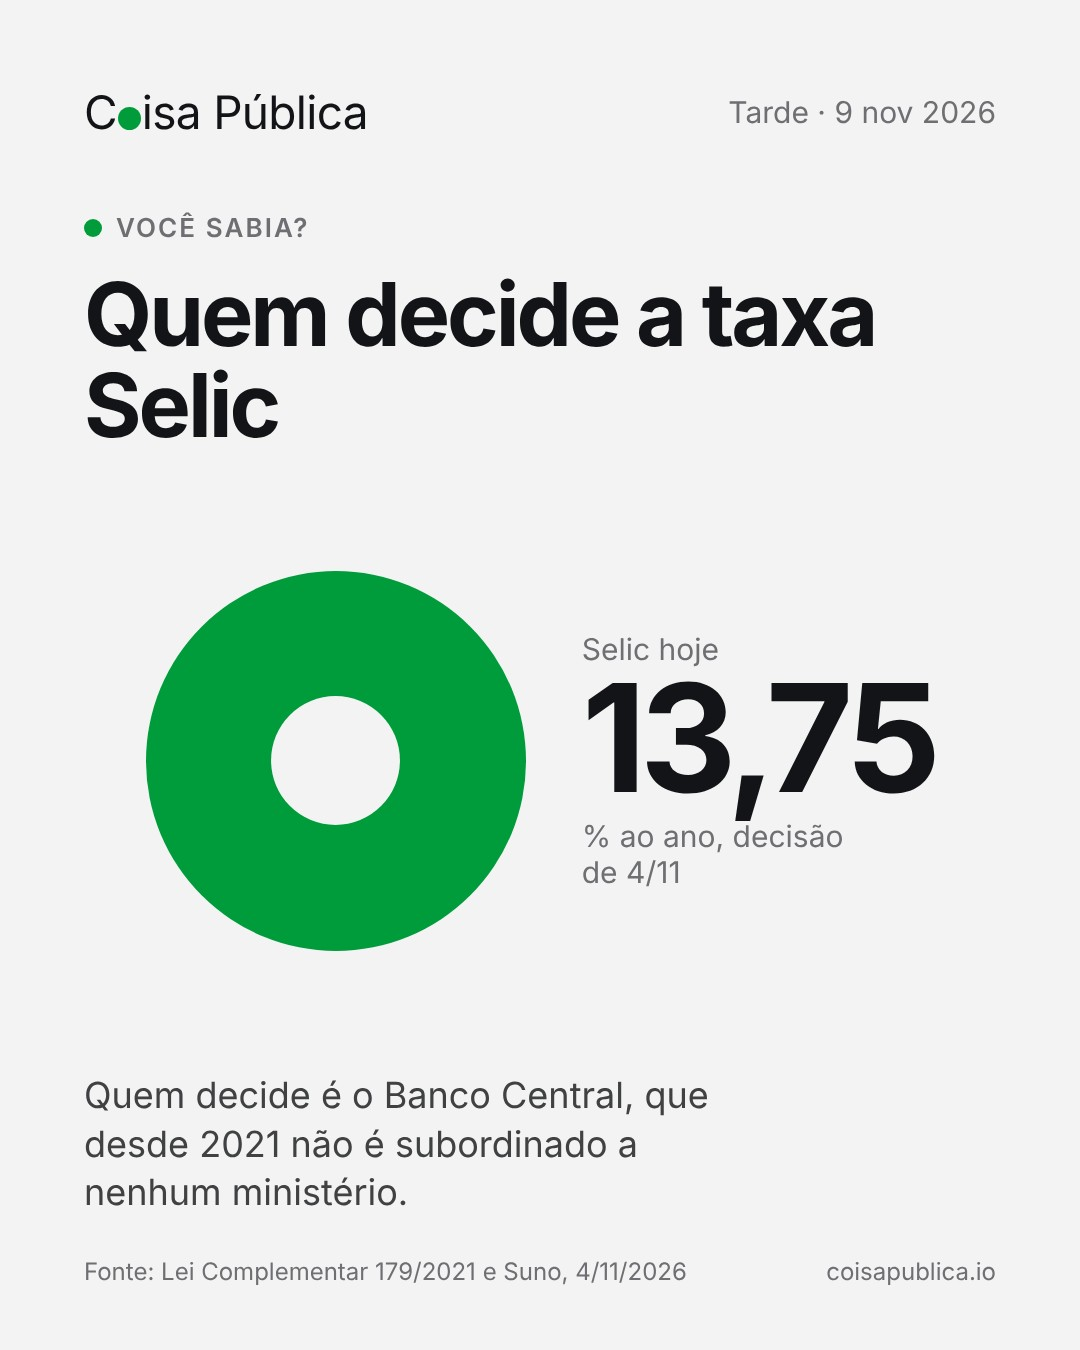
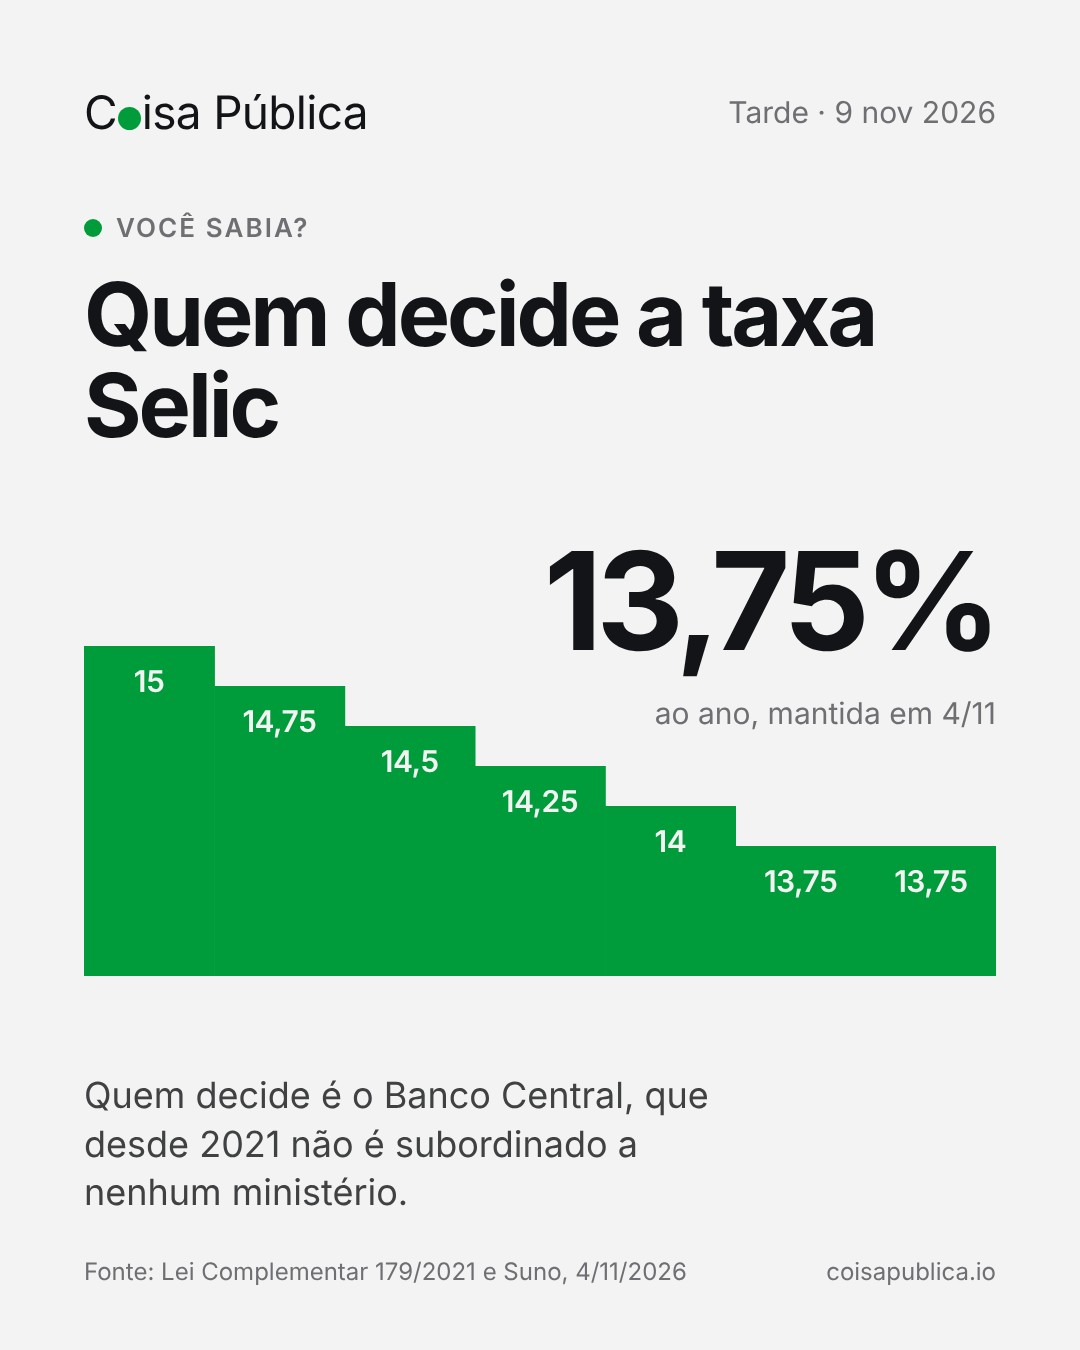
Post da tarde de 9/11: ilustração em degraus da Selic
Claude-Session: https://claude.ai/code/session_01LhzKyHAUvvcBn1G3nMnyQn

Changed region(s): [[0.0611, 0.4044, 0.9472, 0.7467]]

diff --git a/scripts/posts/render.js b/scripts/posts/render.js
@@ -61,6 +61,12 @@ function visual(V, poder){
     const pc = Math.max(0, Math.min(100, +V.valor || 0)), r = 240, L = Math.PI*r, arc = `M${360-r} 360 A${r} ${r} 0 0 1 ${360+r} 360`;
     return `<div><div style="position:relative;width:760px;max-width:100%;margin:0 auto"><svg viewBox="0 0 720 380" width="100%"><path d="${arc}" fill="none" stroke="var(--gray)" stroke-width="200"/><path d="${arc}" fill="none" stroke="var(--pc)" stroke-width="200" stroke-dasharray="${(L*pc/100).toFixed(1)} ${L.toFixed(1)}"/></svg><div style="position:absolute;left:0;right:0;bottom:calc(20px * 760 / 720);text-align:center;line-height:1"><b style="display:block;font-size:88px;font-weight:700;letter-spacing:-.04em">${pc}%</b></div></div>${V.numeros ? `<div class="nums" style="margin-top:30px">${V.numeros.map(x=>`<div><b>${esc(x.n)}</b><span>${esc(x.l)}</span></div>`).join('')}</div>` : ''}</div>`;
   }
+  // degraus: uma coluna por valor, em escada; cada degrau traz o número publicado (a base não começa do zero)
+  if (V.tipo === 'degraus'){
+    const P = V.pontos || [], W = 912, H = 430, w = W / P.length, lo = Math.min(...P), hi = Math.max(...P), h = v => 130 + (hi > lo ? (v-lo)/(hi-lo)*200 : 0);
+    const bars = P.map((v,i)=>`<rect x="${(i*w).toFixed(1)}" y="${H-h(v)}" width="${(w+.6).toFixed(1)}" height="${h(v)}" fill="var(--pc)"/><text x="${((i+.5)*w).toFixed(1)}" y="${H-h(v)+46}" text-anchor="middle" fill="#F3F3F3" font-size="30" font-weight="600" letter-spacing="-.5">${String(v).replace('.',',')}</text>`).join('');
+    return `<svg viewBox="0 0 ${W} ${H}" width="${W}" style="max-width:100%;font-family:inherit">${bars}<text x="${W}" y="104" text-anchor="end" font-size="136" font-weight="700" letter-spacing="-6" fill="var(--ink)">${esc(V.valor||'')}</text><text x="${W}" y="178" text-anchor="end" font-size="30" fill="var(--muted)">${esc(V.sub||'')}</text></svg>`;
+  }
   if (V.tipo === 'plenario') return `<div>${hemi(V.casa, V.destaque || 0)}${V.numeros ? `<div class="nums">${V.numeros.map(x=>`<div><b>${esc(x.n)}</b><span>${esc(x.l)}</span></div>`).join('')}</div>` : ''}</div>`;
   if (V.tipo === 'data') return `<div class="dat">${(V.simbolo || poder) === 'jud' ? MESA : `<div class="circ">${GLY[V.simbolo || poder] || ''}</div>`}<div>${V.rotulo ? `<small>${esc(V.rotulo)}</small>` : ''}<b>${esc(V.valor)}</b>${V.sub ? `<small style="margin-top:8px">${esc(V.sub)}</small>` : ''}</div></div>`;
   return '';

diff --git a/posts/LEIA.md b/posts/LEIA.md
@@ -63,7 +63,7 @@ Horário de Brasília. A tarefa agendada roda todo dia às 6h37, 11h37 e 17h37 e
 
 - `imagem.poder`: `leg`, `jud` ou `exe` (cor da bolinha do logo). Em `tags`, `poder` pinta a etiqueta com a cor do poder e `cat` usa a cor do tipo (`mp`, `pec`, `plp`, `pl`, `pdl`, `acao`, `re`).
 - Um assunto só: `tags`, `texto` e, se houver, `placar` (`desenho`: `stf`, `camara`, `senado` ou sem desenho). Lista de assuntos: `itens` (até 3), cada um com `quando`, `dia`, `tags`, `titulo` e `texto` opcional; o `texto` de fora vira uma linha embaixo do título.
-- Post de um assunto só com `imagem.poder` sai no layout de assunto único: fundo #F3F3F3, o tema em texto pequeno com uma bolinha na cor do poder, sem caixa e sem etiquetas (elas ficam na legenda), e um desenho grande no meio: `visual` `{"tipo":"plenario","casa":"camara"|"senado","destaque":308,"numeros":[{"n":"308","l":"dos 513 deputados"}]}` (semicírculo com as cadeiras destacadas) ou `{"tipo":"percentual","valor":60,"rotulo":"três quintos","numeros":[...]}` (o semicírculo do plenário numa faixa única, preenchida até a porcentagem) ou `{"tipo":"data","rotulo":"Julgamento","valor":"4/11","sub":"quarta-feira, no plenário"}` (o símbolo do poder num círculo, ou a mesa do STF com as 11 cadeiras no Judiciário, e, à direita dele, o rótulo, a data ou o número grande e a linha de baixo; o grupo fica centralizado na largura); sem `visual`, entra o `placar`. Texto curto (uma ou duas frases); o resto vai na legenda. Posts com lista (`itens`), como a ordem do dia e os resumos, seguem com a caixa cinza. Para usar o layout antigo, com caixa, num post de um assunto só: `"fundo":"claro"`.
+- Post de um assunto só com `imagem.poder` sai no layout de assunto único: fundo #F3F3F3, o tema em texto pequeno com uma bolinha na cor do poder, sem caixa e sem etiquetas (elas ficam na legenda), e um desenho grande no meio: `visual` `{"tipo":"plenario","casa":"camara"|"senado","destaque":308,"numeros":[{"n":"308","l":"dos 513 deputados"}]}` (semicírculo com as cadeiras destacadas) ou `{"tipo":"percentual","valor":60,"rotulo":"três quintos","numeros":[...]}` (o semicírculo do plenário numa faixa única, preenchida até a porcentagem) ou `{"tipo":"data","rotulo":"Julgamento","valor":"4/11","sub":"quarta-feira, no plenário"}` (o símbolo do poder num círculo, ou a mesa do STF com as 11 cadeiras no Judiciário, e, à direita dele, o rótulo, a data ou o número grande e a linha de baixo; o grupo fica centralizado na largura); ou `{"tipo":"degraus","pontos":[15,14.75,14.5],"valor":"14,5%","sub":"ao ano"}` (uma escada com o número publicado em cada degrau; a base não começa do zero); sem `visual`, entra o `placar`. Texto curto (uma ou duas frases); o resto vai na legenda. Posts com lista (`itens`), como a ordem do dia e os resumos, seguem com a caixa cinza. Para usar o layout antigo, com caixa, num post de um assunto só: `"fundo":"claro"`.
 - **Pergunta em destaque** (bom para "Em tramitação"): `"pergunta":"Os municípios podem criar as próprias loterias?"` e `"rodape":{"rotulo":"O STF decide em","valor":"4 de novembro"}`. A pergunta vira o título grande, o `titulo` vai para a linha do tema, e embaixo, depois de um fio, entram o símbolo do poder (a mesa do STF no Judiciário) e a data.
 - Títulos curtos (até ~40 caracteres). Se `render.js` avisar que não coube, encurtar.
 - Exemplos completos em `posts/exemplos/`.
